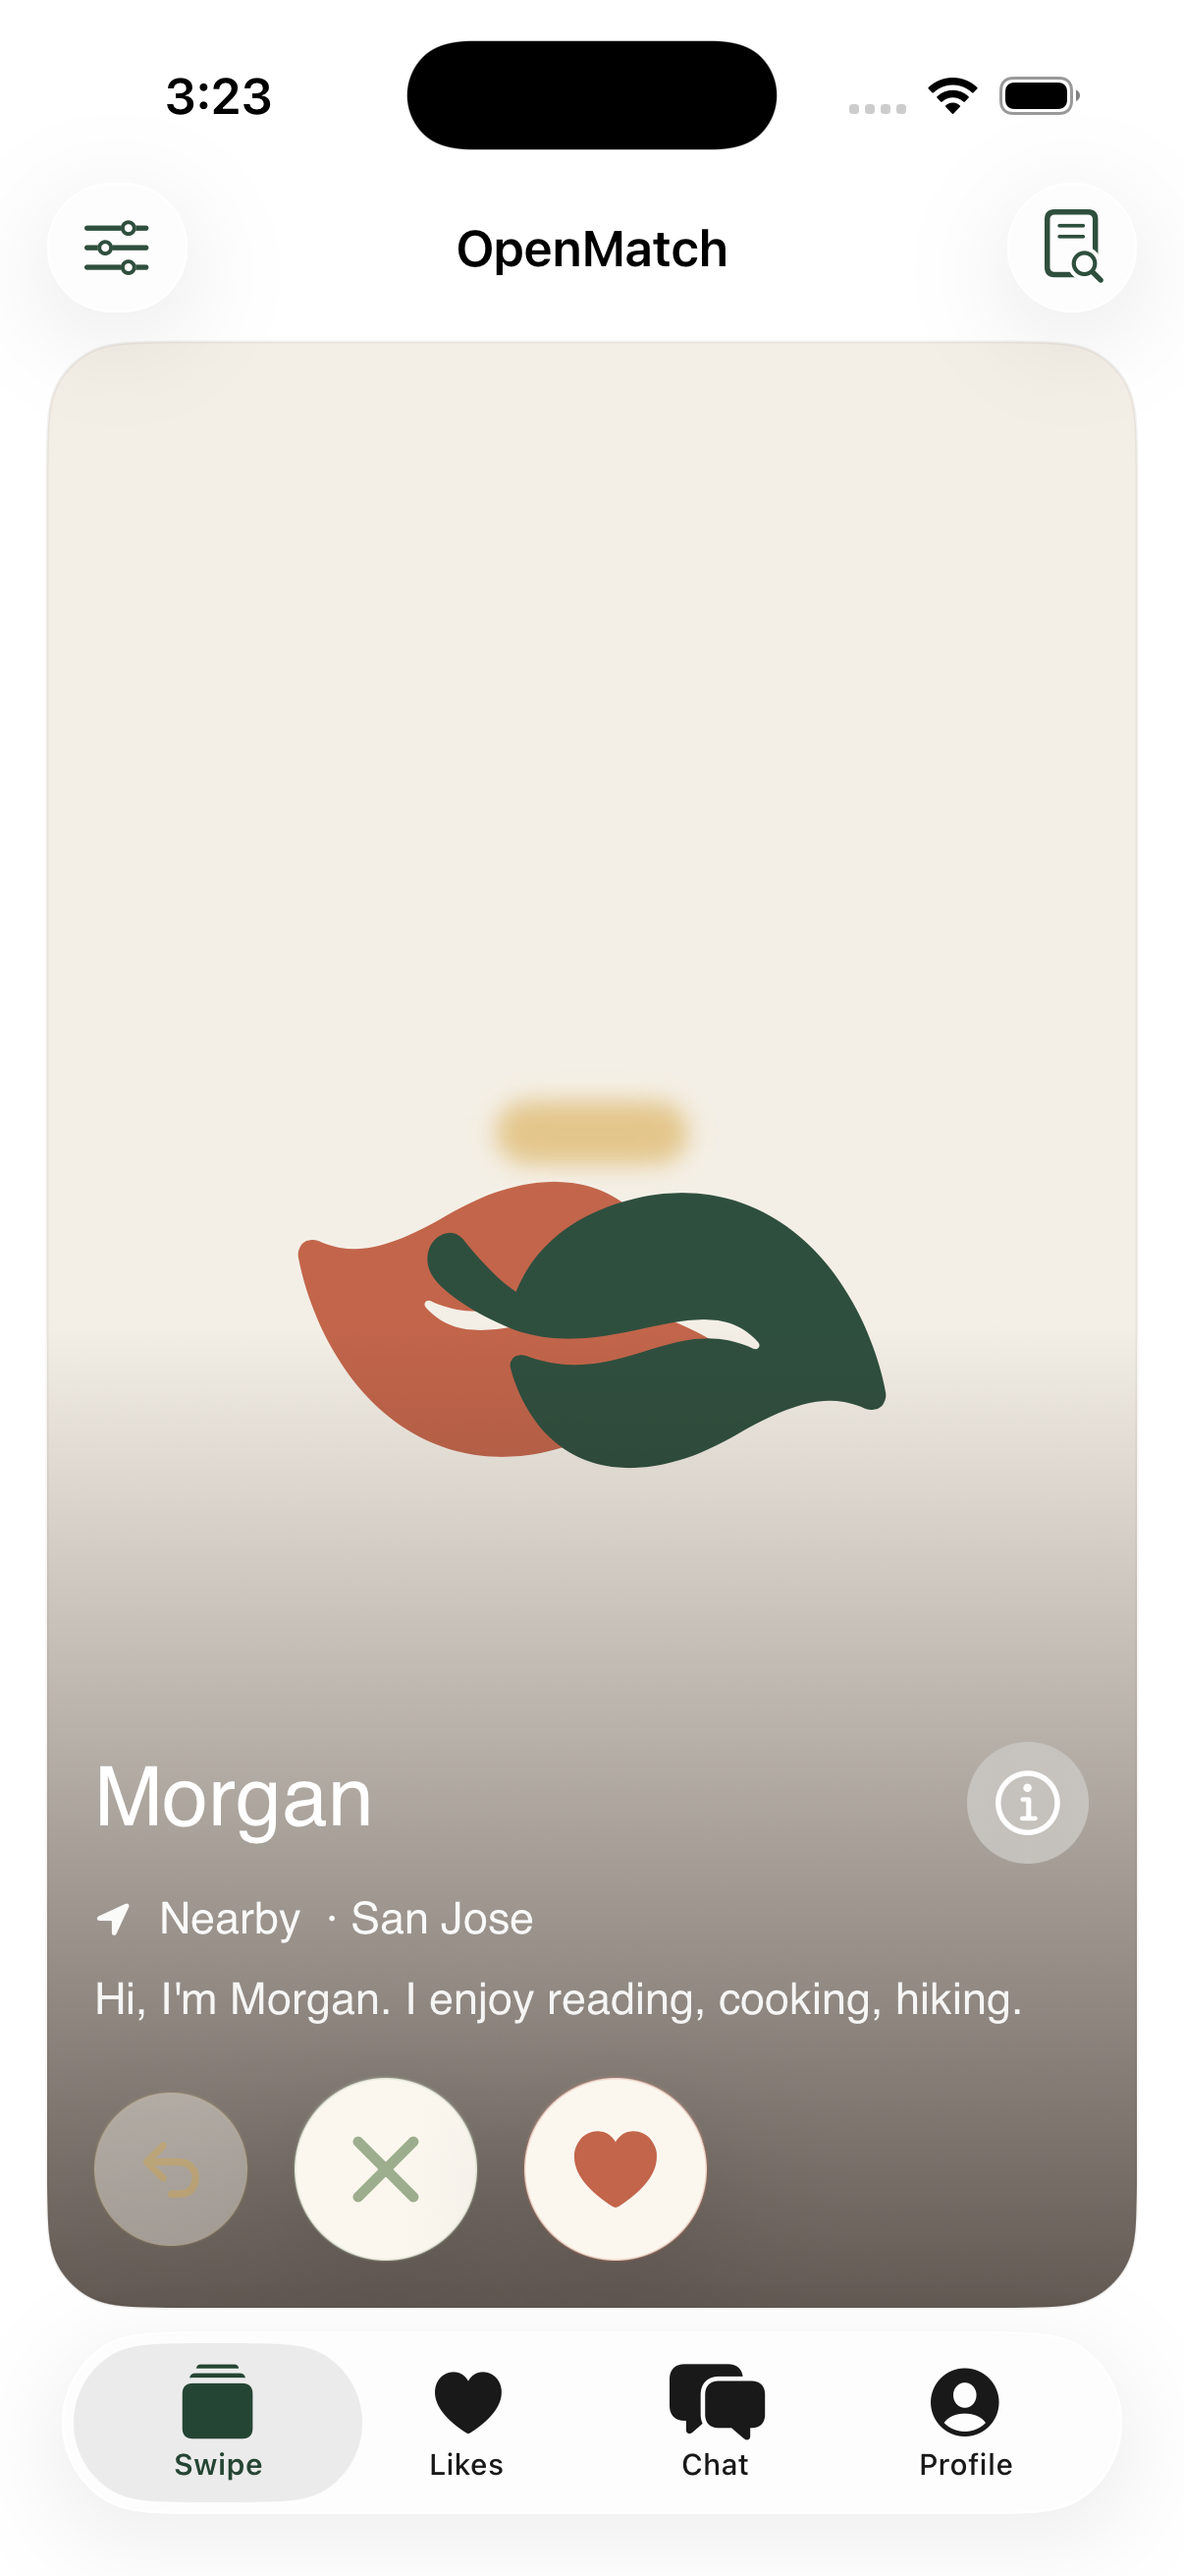
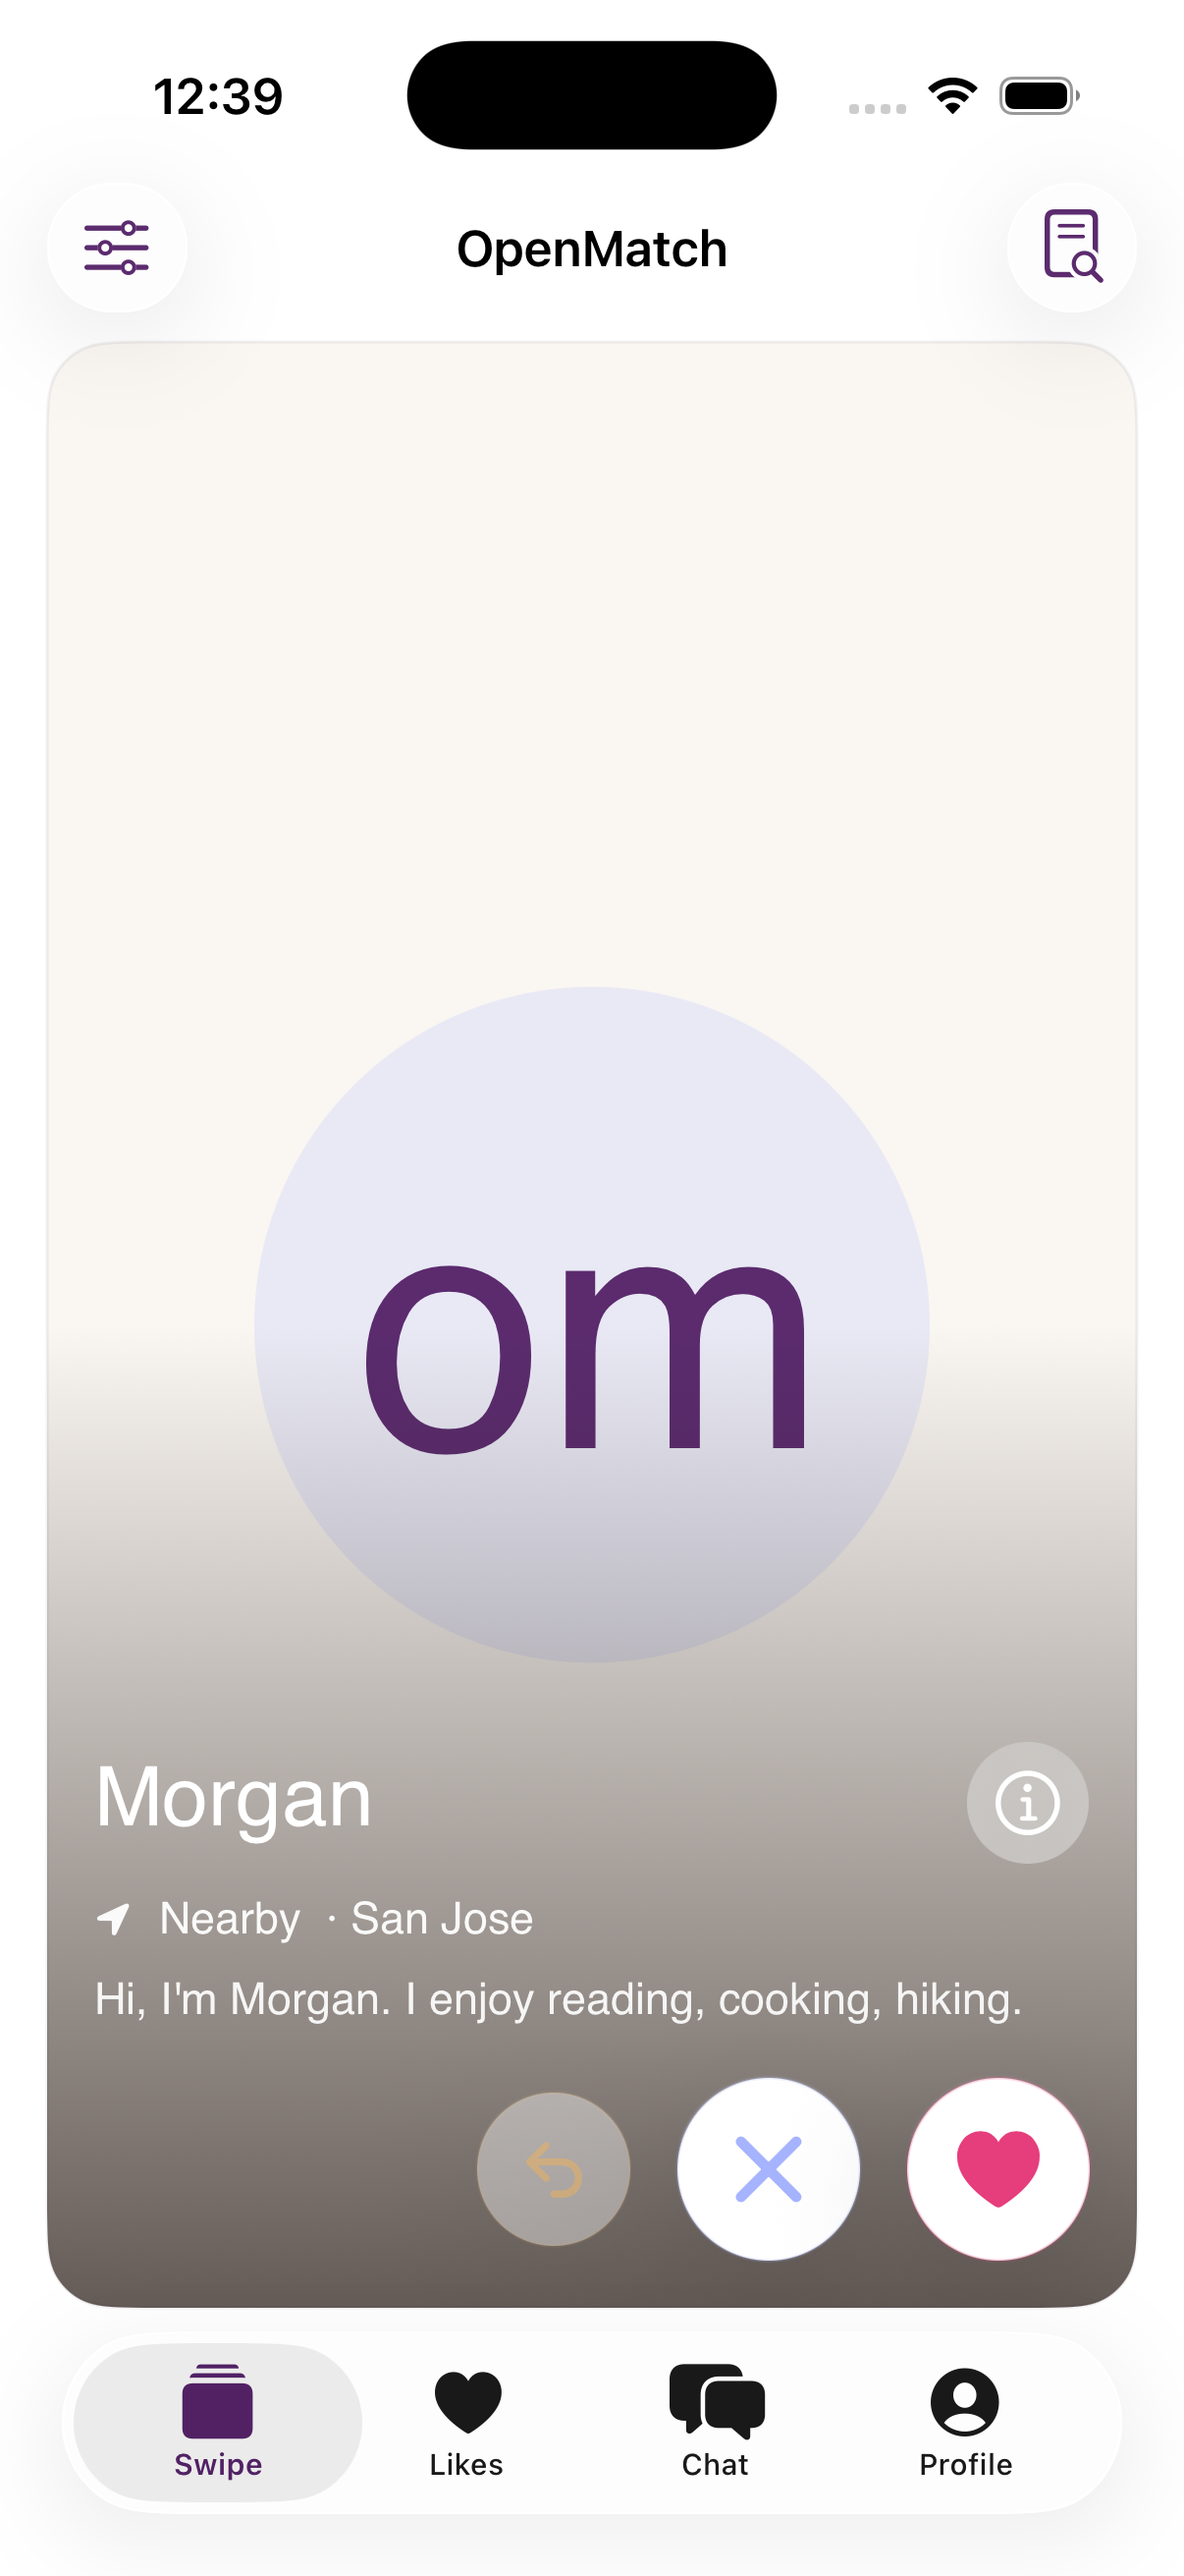
chore(design): fresh Aurora Dawn screenshots for UX review (#61)
Captures the just-shipped Aurora Dawn aesthetic across iOS and admin
surfaces. Replaces the Botanic-era PNGs that were still on disk after
Phase G's HTML+caption refresh, and adds the previously-missing
07-settings-accessibility shot covering the new thumb-reach handedness
picker.

iOS (iPhone 17 simulator, xcrun simctl io screenshot, app launched with
SIMCTL_CHILD_OPENMATCH_* env vars):
- 01 welcome (no auto-login)
- 02 swipe, 04 likes, 05 chat, 06 profile (OPENMATCH_AUTO_LOGIN=u001
  + OPENMATCH_INITIAL_TAB={swipe,likes,chat,profile})
- 03 match-overlay (OPENMATCH_FORCE_MATCH=1)
- 07 settings-accessibility (new OPENMATCH_INITIAL_TAB=settings hook)

Admin (Playwright/chromium, 1440x900 @2x):
- 00 login (unauthenticated)
- 01 overview, 02 users, 03 reports, 04 photos, 05 audit, 06 admins
  (dev-magic-link sign-in as admin@openmatch.local)

Adds two small DEBUG-only UX-review hooks (same pattern as the existing
OPENMATCH_AUTO_LOGIN / OPENMATCH_INITIAL_TAB / OPENMATCH_FORCE_MATCH
toggles):
- OPENMATCH_SUPPRESS_PUSH_PROMPT=1 in PushService skips the system
  notifications prompt so the match-overlay screen can be shot cleanly.
- OPENMATCH_INITIAL_TAB=settings in MainTabView lands directly on the
  SettingsView so the accessibility/handedness row is captured without
  a navigation step.

diff --git a/ios/OpenMatch/State/MainTabView.swift b/ios/OpenMatch/State/MainTabView.swift
@@ -10,7 +10,7 @@ struct MainTabView: View {
         switch ProcessInfo.processInfo.environment["OPENMATCH_INITIAL_TAB"] ?? "" {
         case "likes": return .likes
         case "chat": return .chat
-        case "profile": return .profile
+        case "profile", "settings": return .profile
         default: return .swipe
         }
         #else
@@ -19,6 +19,19 @@ struct MainTabView: View {
     }()
 
     var body: some View {
+        #if DEBUG
+        // UX-review hook: SIMCTL_CHILD_OPENMATCH_INITIAL_TAB=settings lands
+        // directly on the Settings screen (full-screen) so the accessibility/
+        // handedness section can be captured without a navigation step.
+        if ProcessInfo.processInfo.environment["OPENMATCH_INITIAL_TAB"] == "settings" {
+            return AnyView(NavigationStack { SettingsView() })
+        }
+        #endif
+        return AnyView(tabView)
+    }
+
+    @ViewBuilder
+    private var tabView: some View {
         TabView(selection: $selection) {
             // IOS-6 — Swipe tab is replaced with a completion CTA
             // when the profile isn't ready. We *don't* show the

diff --git a/ios/OpenMatch/Networking/PushService.swift b/ios/OpenMatch/Networking/PushService.swift
@@ -17,6 +17,14 @@ final class PushService {
     // practice — iOS only shows the system prompt once per install.
     func requestAuthorization() async -> Bool {
         didAttemptThisSession = true
+        #if DEBUG
+        // UX-review hook: suppress the system notifications prompt so
+        // screenshot captures don't get blocked by a permission dialog.
+        // Set SIMCTL_CHILD_OPENMATCH_SUPPRESS_PUSH_PROMPT=1 when launching.
+        if ProcessInfo.processInfo.environment["OPENMATCH_SUPPRESS_PUSH_PROMPT"] == "1" {
+            return false
+        }
+        #endif
         let center = UNUserNotificationCenter.current()
         do {
             let granted = try await center.requestAuthorization(options: [.alert, .sound, .badge])
